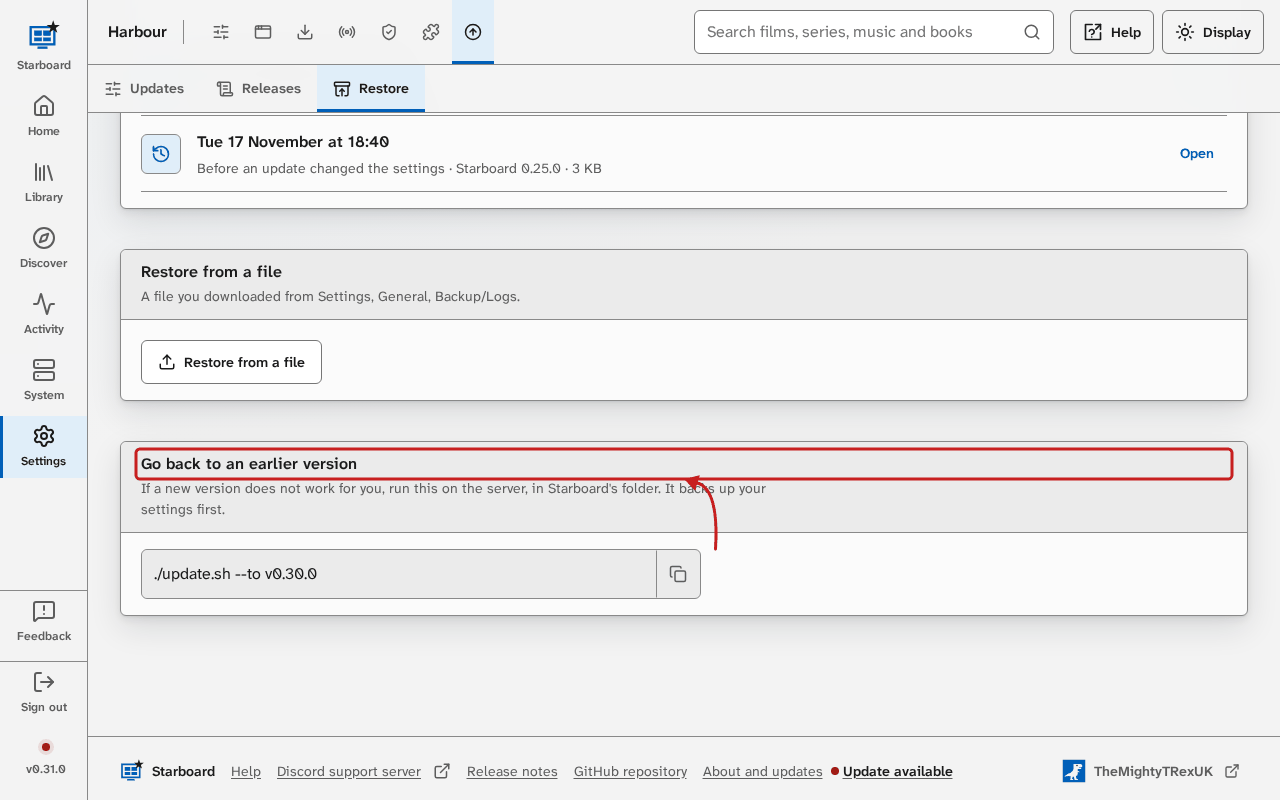
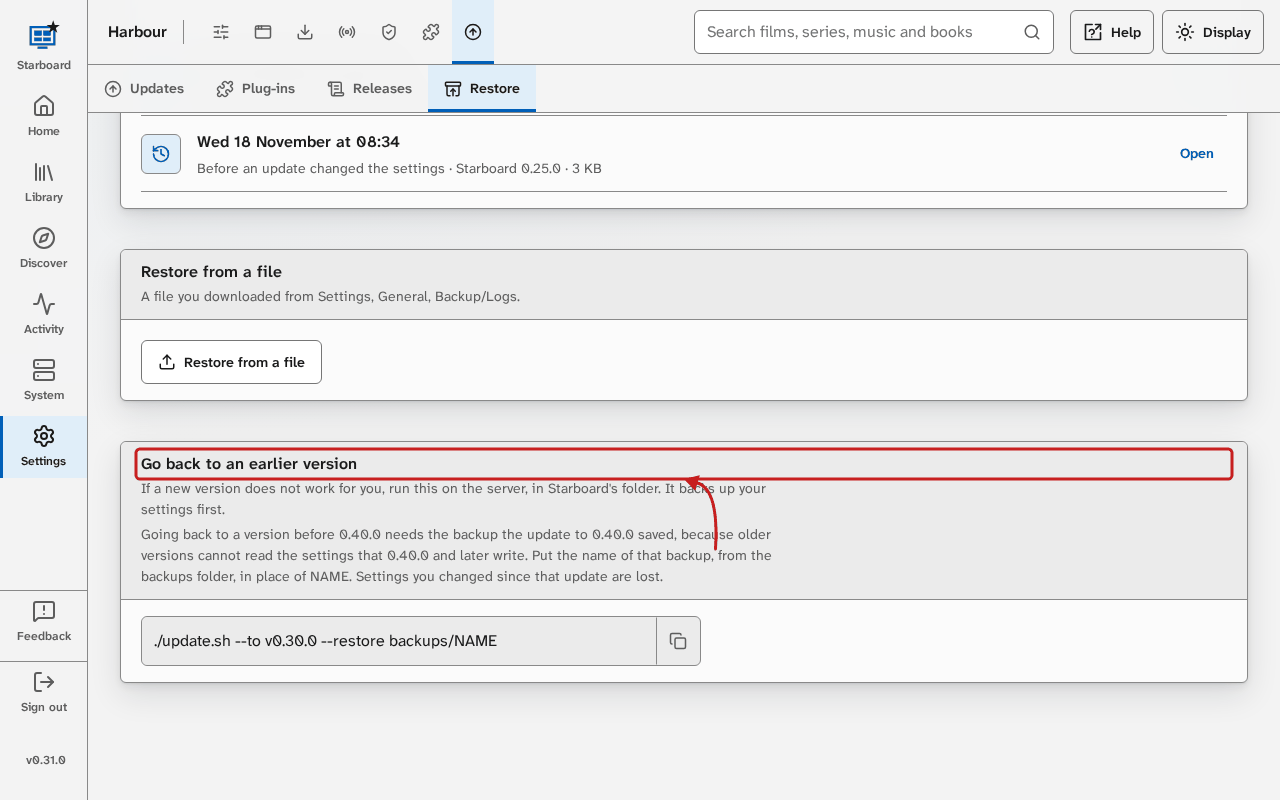
Retake the go back pictures; say in RELEASING.md how the 0.40.0 notes and the update test change (DASH-596)

diff --git a/docs/RELEASING.md b/docs/RELEASING.md
@@ -15,6 +15,10 @@ upgrade guide and the notes on GitHub, so they always say the same thing.
      `hours`, `alerts`, `preset` and `names`. Leave it empty when nothing needs choosing: the upgrade then
      finishes on its own and the notes wait under the version in the footer.
    - `settings`: what changes in people's settings, and the way back (`./update.sh --to v<previous>`).
+     From 0.40.0, say in plain words that nobody can go back to an older Starboard by running it on the new settings:
+     going back before 0.40.0 needs the backup the update saved (`./update.sh --to v<previous> --restore backups/<name>`),
+     and settings changed since are lost (DASH-596). The end-to-end update test (`tools/update_e2e.sh`) must start from
+     `FROM=v0.31.0` or later, because `update.sh` refuses an update to 0.40.0 or later from an older version.
 3. **Notes.** Run `python3 tools/release_notes.py`. It writes `docs/releases/vX.Y.Z.md`.
 4. **Changelog.** `CHANGELOG.md` follows the design system's changelog rules (`docs/CHANGELOGS.md` in the
    design system). Each change goes under `## [Unreleased]` as it is made, under Added, Changed, Deprecated,
